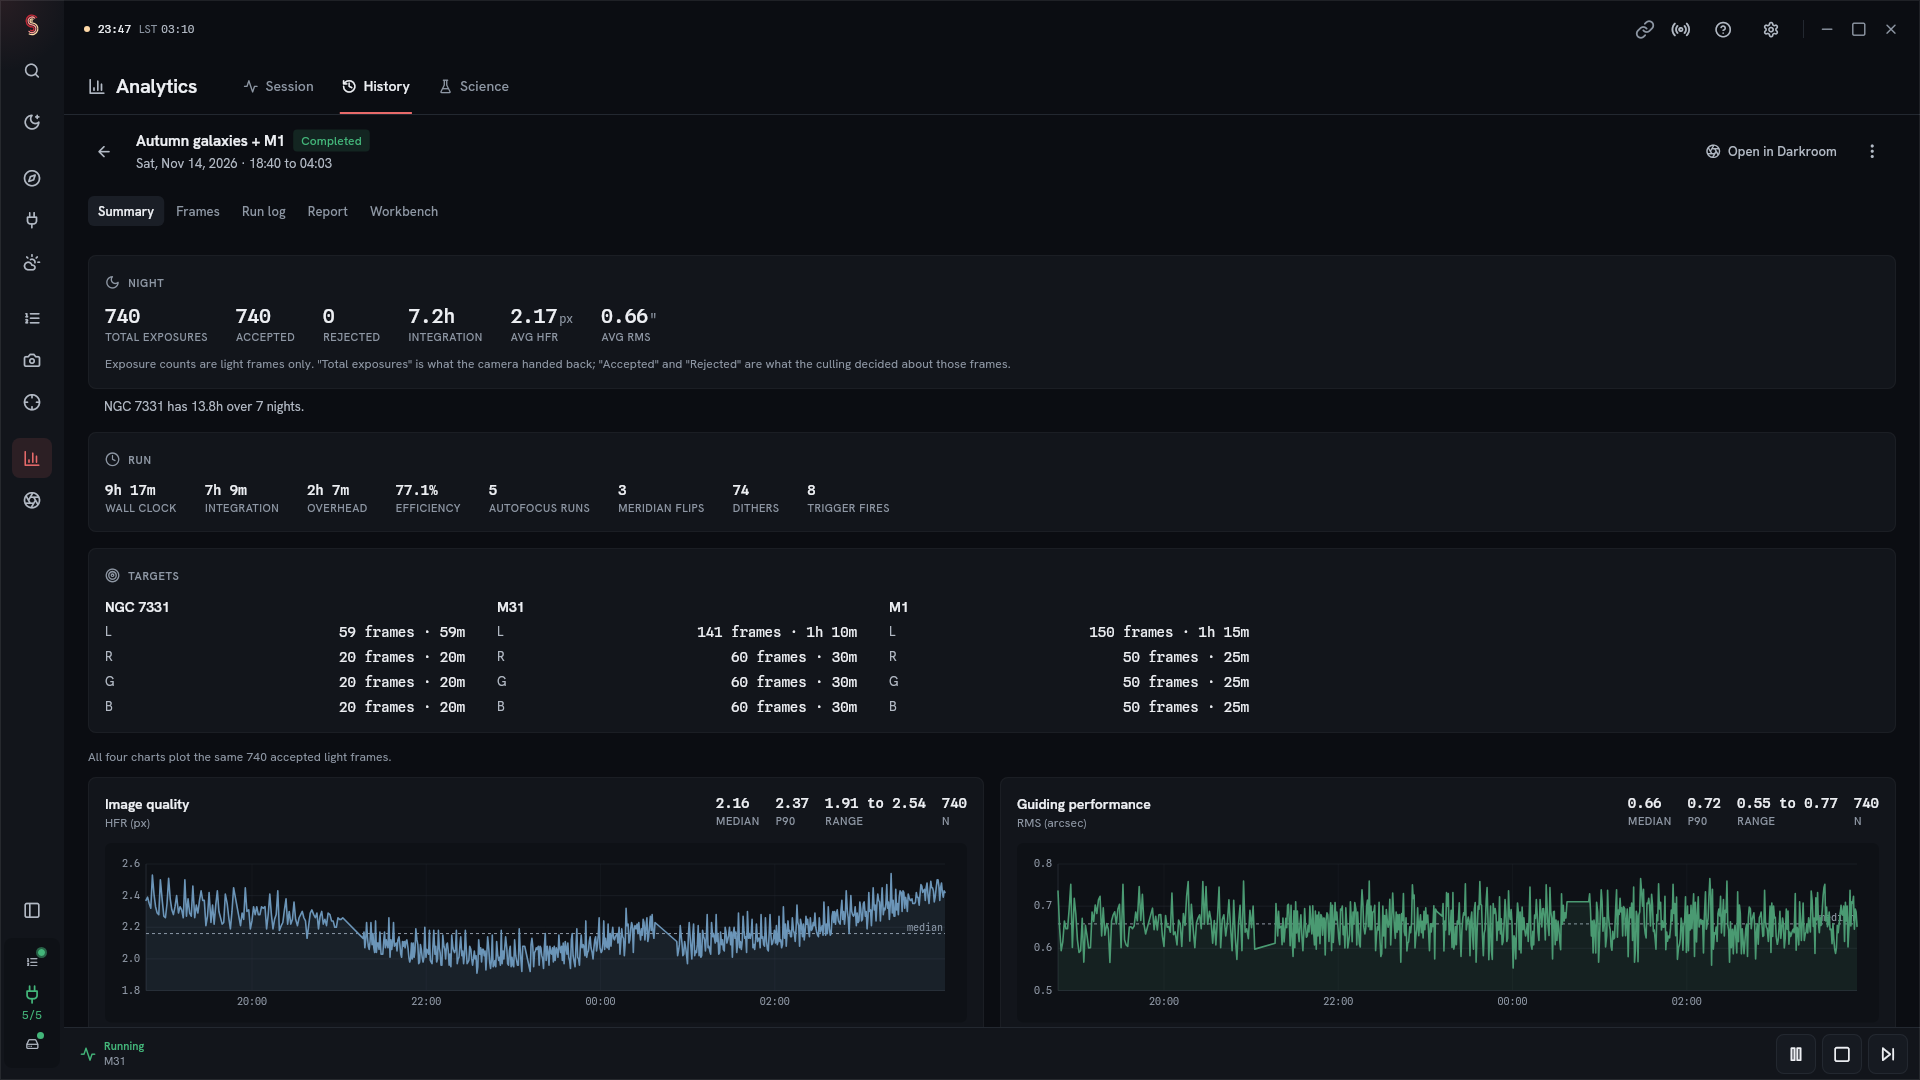
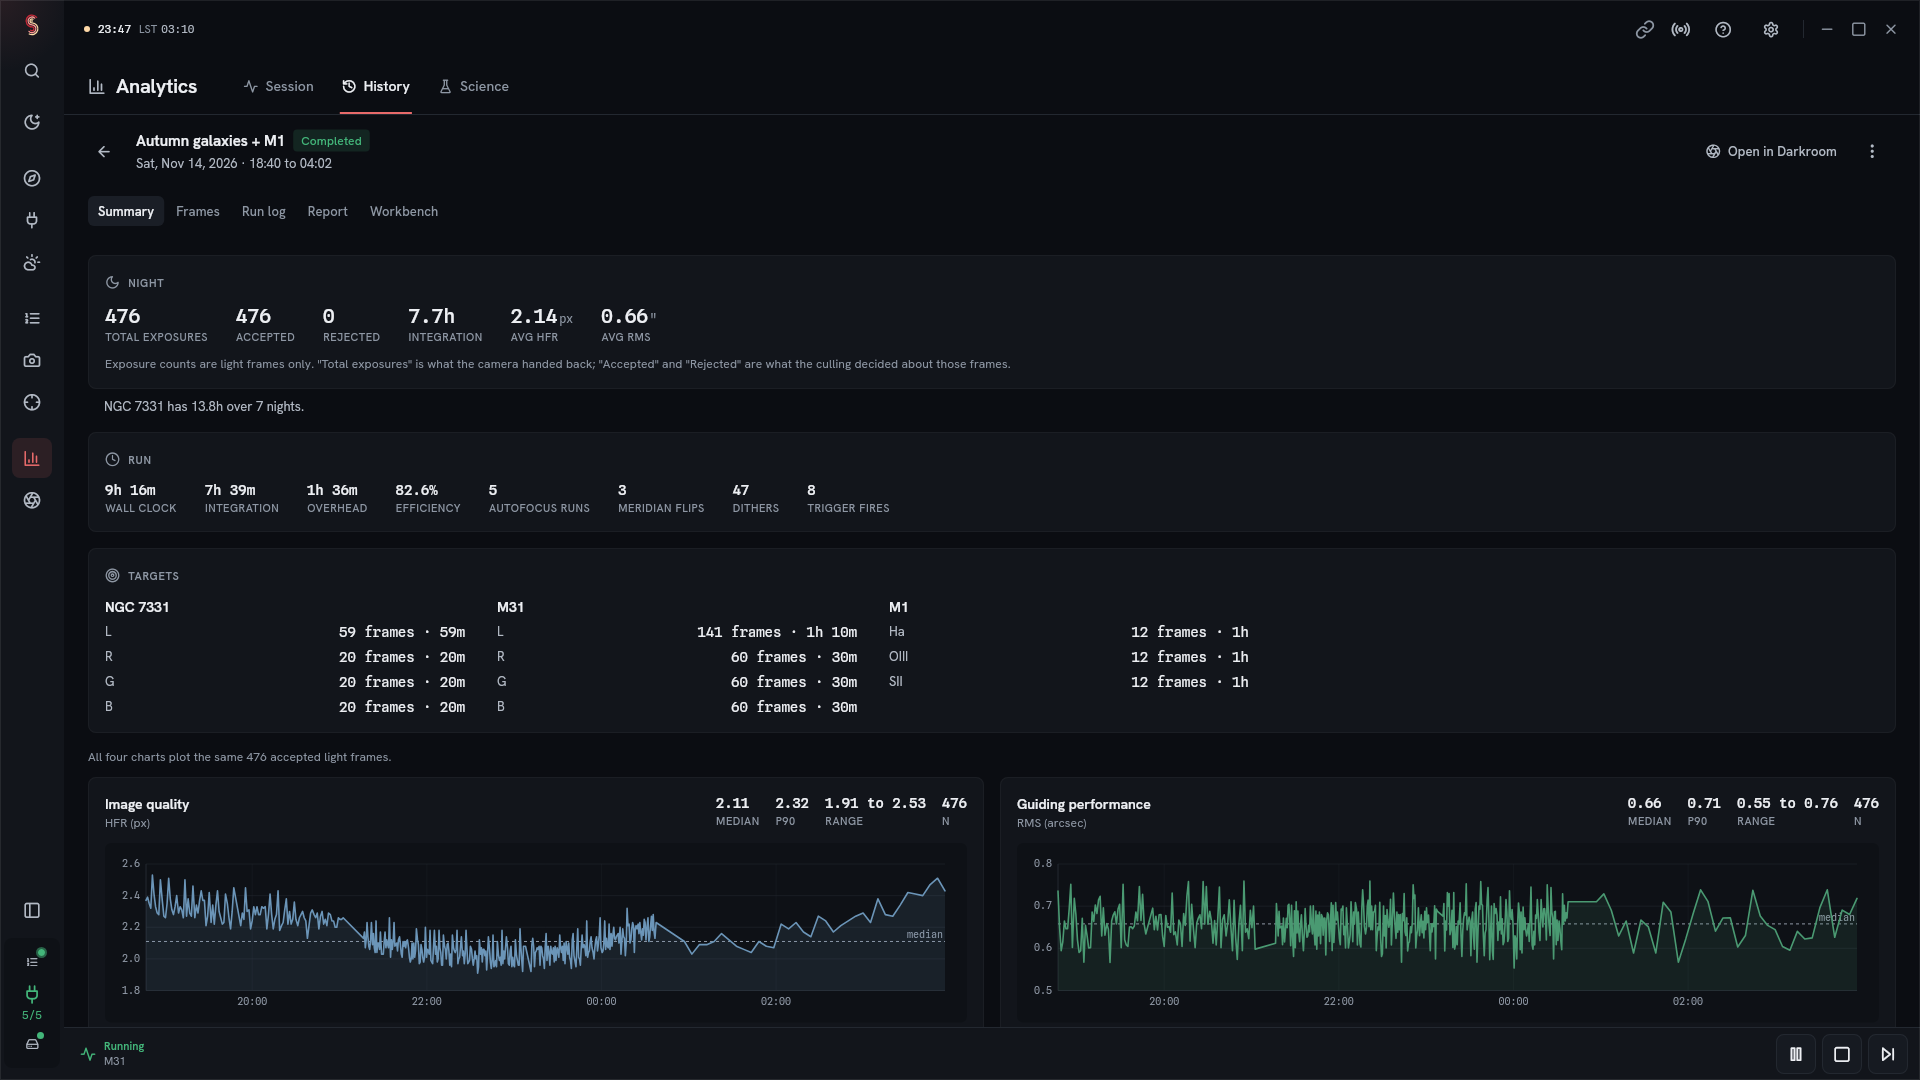
The public screenshots image M1 in SHO and pick the Bubble Nebula in Best tonight, with its narrowband suggestion

diff --git a/packages/skotiq_app/test/golden/public_screenshots/shot_rig.dart b/packages/skotiq_app/test/golden/public_screenshots/shot_rig.dart
@@ -429,7 +429,7 @@ final screenshotSequence = () {
       '$k-center',
       '$k-guide',
       '$k-focus',
-      '$k-lrgb',
+      '$k-exposures',
       '$k-flip'
     ];
     nodes['$k-slew'] = SlewNode(id: '$k-slew', parentId: header, orderIndex: 0);
@@ -455,9 +455,9 @@ final screenshotSequence = () {
       parentId: header,
       orderIndex: 3,
     );
-    nodes['$k-lrgb'] = SmartExposureNode(
-      id: '$k-lrgb',
-      name: 'LRGB',
+    nodes['$k-exposures'] = SmartExposureNode(
+      id: '$k-exposures',
+      name: t.plan.setName,
       plans: [
         for (final e in t.plan.frames.entries)
           FilterPlan(
@@ -511,9 +511,10 @@ final screenshotSequence = () {
     childIds: rootChildren,
   );
   return Sequence(
-    id: 'autumn-lrgb',
+    id: 'autumn-exposures',
     name: ShotNight.sequenceName,
-    description: 'NGC 7331, M31 and M1 in LRGB, each across the meridian.',
+    description: 'NGC 7331 and M31 in LRGB, M1 in SHO, each across the '
+        'meridian.',
     createdAt: ShotNight.at(-9, 17, 30),
     modifiedAt: ShotNight.at(-1, 17, 40),
     rootNodeId: 'root',
@@ -542,8 +543,8 @@ class _Run extends RunRecordNotifier {
       perFilter[f.filter] = (perFilter[f.filter] ?? 0) + 1;
     }
     updateProgress(
-      currentNodeId: '$k-lrgb',
-      currentNodeName: 'LRGB',
+      currentNodeId: '$k-exposures',
+      currentNodeName: current.plan.setName,
       currentNodeStatus: NodeStatus.running,
       completedExposures: frames.length,
       completedIntegrationSecs: _tonight.integrationSecs,
@@ -568,7 +569,7 @@ class _Run extends RunRecordNotifier {
         );
       }
       updateNodeStatus(
-        '$tk-lrgb',
+        '$tk-exposures',
         isCurrent
             ? NodeStatus.running
             : done
@@ -582,7 +583,7 @@ class _Run extends RunRecordNotifier {
       if (isCurrent) {
         final plan = t.plan.frames;
         updateNodeProgress(
-          '$tk-lrgb',
+          '$tk-exposures',
           currentTargetFrames.length / t.plan.framesPerNight,
           [
             for (final f in plan.keys) '$f ${perFilter[f] ?? 0}/${plan[f]}',
@@ -604,7 +605,7 @@ class _Run extends RunRecordNotifier {
 /// step is still running.
 class _NightEvents extends EventHistoryNotifier {
   _NightEvents() {
-    final current = '${_key(lastFrame.target)}-lrgb';
+    final current = '${_key(lastFrame.target)}-exposures';
     final events = <sk.SkotiqEvent>[];
     void add(DateTime at, sk.SequencerEvent event) => events.add(
           sk.SkotiqEvent(
@@ -678,7 +679,7 @@ List<Override> rigOverrides() => <Override>[
           .overrideWith((ref) => screenshotProfile.id),
       currentSequenceProvider.overrideWith((ref) => _Sequence()),
       selectedNodeIdProvider
-          .overrideWith((ref) => '${_key(lastFrame.target)}-lrgb'),
+          .overrideWith((ref) => '${_key(lastFrame.target)}-exposures'),
       runRecordProvider.overrideWith((ref) => _Run()),
       plateSolverDetectionProvider.overrideWith((ref) async => _solver),
       plateSolverPreferenceProvider.overrideWith(
@@ -796,15 +797,28 @@ Future<void> planTonightFromApp() async {
 String _calibrationName(String kind, String setting) =>
     'D:\\Astro\\Skotiq\\Calibration\\master_${kind}_$setting.xisf';
 
-/// The calibration library: master darks for both sub lengths the run uses
-/// and a master bias (built three weeks ago), and this morning's LRGB master
-/// flats from the flat panel (the Flat wizard shot).
+/// The sub lengths tonight's run uses, shortest first.
+List<int> get _subLengths => {
+      for (final t in ShotNight.targets) t.plan.exposureSecs.round(),
+    }.toList()
+      ..sort();
+
+/// The filters of the run that this morning's flat batch did not cover.
+const _narrowband = ['Ha', 'OIII', 'SII'];
+
+String _darkName(int secs) =>
+    _calibrationName('dark', '${secs}s_-10C_g${ShotNight.gain}');
+String _flatName(String filter) =>
+    _calibrationName('flat', '${filter}_g${ShotNight.gain}');
+
+/// The calibration library: a master dark for every sub length the run uses
+/// and a master bias (built three weeks ago), this morning's LRGB master
+/// flats from the flat panel (the Flat wizard shot), and the narrowband master
+/// flats from the panel before M1's first SHO night.
 List<String> calibrationPaths() => [
-      for (final secs in [30, 60])
-        _calibrationName('dark', '${secs}s_-10C_g${ShotNight.gain}'),
+      for (final secs in _subLengths) _darkName(secs),
       _calibrationName('bias', '-10C_g${ShotNight.gain}'),
-      for (final f in ['L', 'R', 'G', 'B'])
-        _calibrationName('flat', '${f}_g${ShotNight.gain}'),
+      for (final f in [...ShotNight.lrgb, ..._narrowband]) _flatName(f),
     ];
 
 /// The calibration library ([calibrationPaths]) and the operator's last
@@ -812,29 +826,34 @@ List<String> calibrationPaths() => [
 /// safety stays off, as on the owner's rig: it has no weather device or safety
 /// monitor, and the app does not let a forecast alone hold a fail-closed run.
 Future<void> seedCalibration(SkotiqDatabase db) async {
-  final paths = calibrationPaths();
   final built = ShotNight.at(-21, 14, 0);
-  for (final (i, secs) in [30.0, 60.0, 0.0].indexed) {
+  for (final secs in [..._subLengths, 0]) {
+    final path = secs == 0
+        ? _calibrationName('bias', '-10C_g${ShotNight.gain}')
+        : _darkName(secs);
     await db.into(db.darkLibrary).insert(
           DarkLibraryCompanion.insert(
-            filePath: paths[i],
+            filePath: path,
             frameType: Value(secs == 0 ? 'bias' : 'dark'),
-            exposureTime: secs,
+            exposureTime: secs.toDouble(),
             temperature: const Value(-10),
             gain: const Value(ShotNight.gain),
             offset: const Value(ShotNight.offset),
             width: const Value(ShotNight.sensorWidth),
             height: const Value(ShotNight.sensorHeight),
-            masterDarkPath: Value(paths[i]),
+            masterDarkPath: Value(path),
             masterFrameCount: Value(secs == 0 ? 100 : 40),
             createdAt: Value(built),
           ),
         );
   }
-  for (final (i, filter) in ['L', 'R', 'G', 'B'].indexed) {
+  for (final filter in [...ShotNight.lrgb, ..._narrowband]) {
+    final takenAt = _narrowband.contains(filter)
+        ? ShotNight.at(-19, 16, 10)
+        : ShotNight.at(-1, 6, 40);
     await db.into(db.flatLibrary).insert(
           FlatLibraryCompanion.insert(
-            filePath: paths[3 + i],
+            filePath: _flatName(filter),
             filter: Value(filter),
             temperature: const Value(-10),
             gain: const Value(ShotNight.gain),
@@ -843,7 +862,7 @@ Future<void> seedCalibration(SkotiqDatabase db) async {
             height: const Value(ShotNight.sensorHeight),
             flatKind: const Value('panel'),
             masterFrameCount: const Value(30),
-            createdAt: ShotNight.at(-1, 6, 40).millisecondsSinceEpoch ~/ 1000,
+            createdAt: takenAt.millisecondsSinceEpoch ~/ 1000,
           ),
         );
   }

diff --git a/packages/skotiq_app/test/golden/public_screenshots_test.dart b/packages/skotiq_app/test/golden/public_screenshots_test.dart
@@ -4,11 +4,13 @@ library;
 import 'dart:io';
 
 import 'package:flutter/services.dart';
+import 'package:flutter_riverpod/flutter_riverpod.dart';
 import 'package:flutter_test/flutter_test.dart';
 import 'package:skotiq_app/screens/analytics/quick_capture_selection.dart';
 import 'package:skotiq_app/screens/night_control/night_control_contracts.dart';
 import 'package:skotiq_app/screens/shell/shell_chrome.dart';
 import 'package:skotiq_astro/skotiq_astro.dart' show CelestialCoordinate;
+import 'package:skotiq_core/providers.dart';
 import 'package:skotiq_planetarium/skotiq_planetarium.dart'
     show SkyViewNotifier, skyViewStateProvider;
 
@@ -67,12 +69,19 @@ final shots = <Shot>[
     description: 'Tonight with the Guide tab open.',
     overrides: tonightOverrides(tab: NightPanelTab.guide),
   ),
-  const Shot(
+  Shot(
     fileName: 'plan-best-tonight.png',
     location: '/planner?tab=recommendation',
-    description: 'Plan > Best tonight: the OpenNGC catalog ranked for this '
-        'site and rig tonight, with the top pick\'s altitude curve.',
-    loadTime: Duration(seconds: 8),
+    description: 'Plan > Best tonight narrowed to nebulae: the OpenNGC '
+        'catalog ranked for this site and rig tonight, with the Bubble Nebula '
+        'picked: its altitude curve and the narrowband set the app suggests.',
+    loadTime: const Duration(seconds: 8),
+    overrides: [
+      suggestionFilterProvider.overrideWith(
+        (ref) => const SuggestionFilterState(selectedObjectTypes: {'nebula'}),
+      ),
+    ],
+    prepare: pickRow('Bubble Nebula'),
   ),
   const Shot(
     fileName: 'plan-targets.png',
@@ -105,8 +114,8 @@ final shots = <Shot>[
   const Shot(
     fileName: 'sequencer.png',
     location: '/sequencer?tab=builder',
-    description: 'Sequencer > Builder with the three-target LRGB plan '
-        'running on M31.',
+    description: 'Sequencer > Builder with the three-target plan (the '
+        'galaxies in LRGB, M1 in SHO) running on M31.',
   ),
   const Shot(
     fileName: 'imaging.png',
@@ -153,9 +162,9 @@ final shots = <Shot>[
   const Shot(
     fileName: 'darkroom.png',
     location: '/darkroom',
-    description: 'Darkroom > Targets: the L, R, G and B masters built this '
-        'morning for the run\'s three targets.',
-    loadTime: Duration(seconds: 6),
+    description: 'Darkroom > Targets: the masters built this morning for '
+        'the run\'s three targets (LRGB for the galaxies, SHO for M1).',
+    loadTime: Duration(seconds: 16),
   ),
   Shot(
     fileName: 'flat-wizard.png',
@@ -181,6 +190,11 @@ final shots = <Shot>[
     pixelRatio: 3,
   ),
 ];
+
+/// Clicks the row named [name], as the user picks it from a list.
+Future<void> Function(WidgetTester tester, ProviderContainer container) pickRow(
+        String name) =>
+    (tester, _) => tester.tap(find.text(name).first);
 
 void main() {
   TestWidgetsFlutterBinding.ensureInitialized();

diff --git a/packages/skotiq_app/test/golden/public_screenshots/shot_night.dart b/packages/skotiq_app/test/golden/public_screenshots/shot_night.dart
@@ -67,6 +67,9 @@ class ShotFilterPlan {
   final Map<String, int> goalFrames;
 
   int get framesPerNight => frames.values.fold(0, (a, b) => a + b);
+
+  /// The filter set's short name, as the run's step is named.
+  String get setName => frames.containsKey('Ha') ? 'SHO' : 'LRGB';
 }
 
 /// One target's slot on one night.
@@ -157,9 +160,11 @@ class ShotNightRun {
         names.every(ShotNight.targets.contains)) {
       return ShotNight.sequenceName;
     }
-    final narrowband = names.first.plan.frames.containsKey('Ha');
-    return '${names.map((t) => t.name).join(' + ')} '
-        '${narrowband ? 'SHO' : 'LRGB'}';
+    final sets = {for (final t in names) t.plan.setName};
+    if (sets.length == 1) {
+      return '${names.map((t) => t.name).join(' + ')} ${sets.single}';
+    }
+    return names.map((t) => '${t.name} ${t.plan.setName}').join(' + ');
   }
 
   DateTime get end => frames.last.capturedAt;
@@ -237,6 +242,7 @@ abstract final class ShotNight {
   static const int offset = 15;
   static const double setpoint = -10;
   static const List<String> filters = ['L', 'R', 'G', 'B', 'Ha', 'OIII', 'SII'];
+  static const List<String> lrgb = ['L', 'R', 'G', 'B'];
 
   /// Image scale in arcseconds per pixel.
   static double get pixelScale => 206.265 * pixelSizeUm / focalLength;
@@ -286,9 +292,9 @@ abstract final class ShotNight {
     constellation: 'Tau',
     sizeArcmin: 6,
     plan: ShotFilterPlan(
-      exposureSecs: 30,
-      frames: {'L': 150, 'R': 50, 'G': 50, 'B': 50},
-      goalFrames: {'L': 1200, 'R': 400, 'G': 400, 'B': 400},
+      exposureSecs: 300,
+      frames: {'Ha': 12, 'OIII': 12, 'SII': 12},
+      goalFrames: {'Ha': 60, 'OIII': 60, 'SII': 60},
     ),
   );
 
@@ -547,7 +553,7 @@ abstract final class ShotNight {
     var position = _focusPosition(temp);
     focus.add(ShotAutofocus(t, position, 2.08 + random.nextDouble() * 0.08,
         double.parse(temp.toStringAsFixed(1))));
-    t = (planned ? plannedStart('$key-lrgb') : null) ??
+    t = (planned ? plannedStart('$key-exposures') : null) ??
         t.add(const Duration(minutes: 3));
     var number = 0;
     for (final filter in order) {

diff --git a/packages/skotiq_app/test/golden/public_screenshots/shot_tonight.dart b/packages/skotiq_app/test/golden/public_screenshots/shot_tonight.dart
@@ -203,8 +203,8 @@ List<PlanStepVm> _steps() {
           : StepWhenPlanned(slot.start),
     ));
     steps.add(PlanStepVm(
-      nodeId: '$k-lrgb',
-      label: 'LRGB ${t.plan.framesPerNight} × $secs s',
+      nodeId: '$k-exposures',
+      label: '${t.plan.setName} ${t.plan.framesPerNight} × $secs s',
       status: isCurrent
           ? PlanStepStatus.active
           : done
@@ -214,7 +214,7 @@ List<PlanStepVm> _steps() {
           ? StepWhenProgress(currentTargetFrames.length, t.plan.framesPerNight)
           : done
               ? StepWhenActual(slot.end)
-              : StepWhenPlanned(ShotNight.plannedStart('$k-lrgb')!),
+              : StepWhenPlanned(ShotNight.plannedStart('$k-exposures')!),
     ));
   }
   steps.add(PlanStepVm(
@@ -628,8 +628,9 @@ NightCameraPanelVm _camera() {
       binning: 1,
       filter: lastFrame.filter,
     ),
-    stepNodeId: '${_current.folder.toLowerCase()}-lrgb',
-    stepLabel: 'LRGB ${_current.plan.framesPerNight} × $secs s',
+    stepNodeId: '${_current.folder.toLowerCase()}-exposures',
+    stepLabel:
+        '${_current.plan.setName} ${_current.plan.framesPerNight} × $secs s',
     stepIndex: 9,
     filters: NightFilterSlotsVm(
       connected: true,

diff --git a/packages/skotiq_app/test/golden/public_screenshots/shot_capture.dart b/packages/skotiq_app/test/golden/public_screenshots/shot_capture.dart
@@ -54,8 +54,10 @@ class Shot {
   final List<Override> overrides;
 
   /// Runs after the screen has drawn and loaded, before the capture: the
-  /// state the screen reaches after it opens (a run that finished).
-  final void Function(ProviderContainer container)? prepare;
+  /// state the screen reaches after it opens (a run that finished, a row the
+  /// user picked).
+  final Future<void> Function(WidgetTester tester, ProviderContainer container)?
+      prepare;
 
   /// Real time the screen needs beyond the usual settle to finish loading
   /// (scoring the whole catalog, say).
@@ -155,7 +157,7 @@ Future<File> captureShot(
       await tester.pump(const Duration(milliseconds: 50));
     }
     if (shot.prepare != null) {
-      shot.prepare!(container);
+      await shot.prepare!(tester, container);
       for (var i = 0; i < 8; i++) {
         await tester.runAsync(
           () => Future<void>.delayed(const Duration(milliseconds: 30)),

diff --git a/packages/skotiq_app/test/golden/public_screenshots/shot_flats.dart b/packages/skotiq_app/test/golden/public_screenshots/shot_flats.dart
@@ -4,6 +4,7 @@ import 'dart:math' as math;
 import 'dart:typed_data';
 
 import 'package:flutter_riverpod/flutter_riverpod.dart';
+import 'package:flutter_test/flutter_test.dart';
 import 'package:skotiq_core/models.dart';
 import 'package:skotiq_core/providers.dart';
 
@@ -123,5 +124,8 @@ List<Override> flatWizardOverrides() => [
 
 /// Ends the batch once the screen has loaded the wheel's filters, as a run
 /// started from the opened screen would.
-void finishFlatBatch(ProviderContainer container) =>
+Future<void> finishFlatBatch(
+  WidgetTester tester,
+  ProviderContainer container,
+) async =>
     (container.read(flatWizardProvider.notifier) as _Flats).finishBatch();

diff --git a/packages/skotiq_app/test/golden/public_screenshots/shot_darkroom.dart b/packages/skotiq_app/test/golden/public_screenshots/shot_darkroom.dart
@@ -1,5 +1,5 @@
-// The Darkroom's registered masters: each target's L, R, G and B masters,
-// built this morning from every night before tonight. The frames each master
+// The Darkroom's registered masters: a master per filter of each target's
+// plan, built this morning from every night before tonight. The frames each master
 // folded are the seeded frames, so the counts agree with History and Plan.
 import 'dart:convert';
 import 'dart:io';

diff --git a/packages/skotiq_app/test/fixtures/README.md b/packages/skotiq_app/test/fixtures/README.md
@@ -15,7 +15,7 @@ the Tonight stage, in the Imaging viewer and as the frame-strip thumbnail.
 
 ## `darkroom/`
 
-One sub per filter from the same night (M31 and M1, L, R, G and B, 30 s each,
+One M31 sub per filter from the same night (L, R, G and B, 30 s each,
 gain 76, -10 C), rendered through the same auto-stretch as
 `m31_l_30s_rig.png`, converted to gray and reduced to a quarter (1164 x 880,
 JPEG). The public screenshots register them as the previews of the Darkroom's
